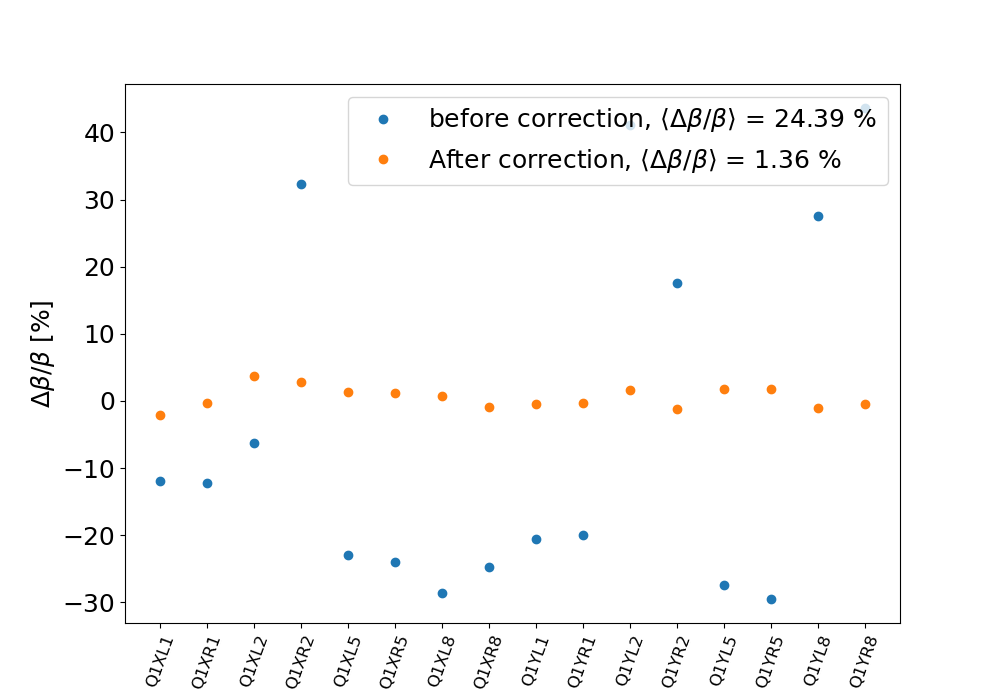
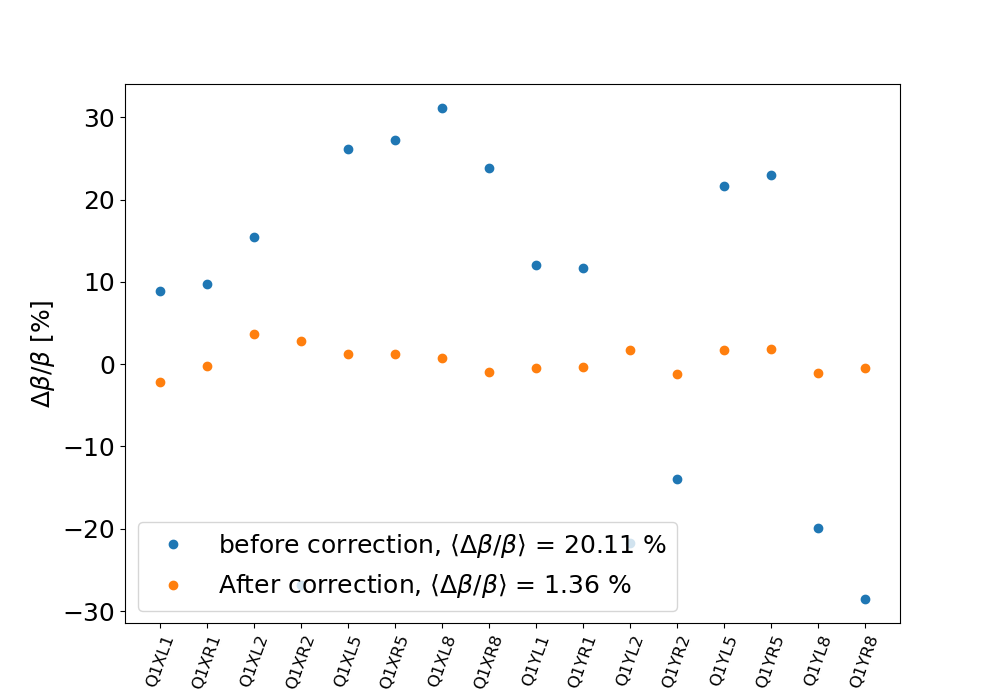
further analysis

diff --git a/gym/gym_lhc/correction.py b/gym/gym_lhc/correction.py
@@ -17,7 +17,7 @@ def run_correction():
     KQX2B2 = -0.04005580581
     KQX3B2 = 0.0234346323
 
-    input = [KQX3B1, KQX3B1, KQX2B1, KQX2B1,
+    nominal = [KQX3B1, KQX3B1, KQX2B1, KQX2B1,
              KQX1B1, KQX1B1, KQX1B2, KQX1B2,
              KQX2B2, KQX2B2, KQX3B2, KQX3B2]
 
@@ -53,7 +53,8 @@ def run_correction():
     obs = env.reset()
 
     # Define errors and observation space
-    errors = obs/input-1
+    errors = obs - nominal
+    print("Nominal state:", nominal)
     print("State:", obs)
     print("Errors:", errors)
     initial = obs
@@ -63,10 +64,23 @@ def run_correction():
     modelfile = 'Ridge_surrogate_20k.pkl'
     estimator = pickle.load(open(modelfile, "rb"))
 
-    # Estimated initial beta-beating
+    # Estimated beta-beating before correction
     dbetas_0 = estimator.predict(np.reshape(initial, (1, -1))) / betas_B1 * 100
     beating_0 = abs(dbetas_0).mean()
     print("beta-beating before correction = %1.2f %%" % beating_0)
+
+    # Manual correction based on compensating magnetic errors
+
+    errors_avg = [0]*12
+
+    for j in range(6):
+        i = 2*j
+        errors_avg[i], errors_avg[i+1] = (errors[i] + errors[i+1])/2.0, (errors[i] + errors[i+1])/2.0
+
+    initial_corr = initial - errors_avg
+    dbetas_manual = estimator.predict(np.reshape(initial_corr, (1, -1))) / betas_B1 * 100
+    beating_manual = abs(dbetas_manual).mean()
+    print("beta-beating after manual correction = %1.2f %%" % beating_manual)
 
     # Load RL model
     model = TD3.load("td3_LHC_136")
@@ -87,8 +101,8 @@ def run_correction():
             #print("Final state =", obs)
 
     # Return beta-beating after correction
-    obs_0_norm = (obs_0-input)/input*100
-    obs_norm = (obs-input)/input*100
+    obs_0_norm = (obs_0-nominal)/nominal*100
+    obs_norm = (obs-nominal)/nominal*100
 
     '''
     plt.figure()
@@ -101,7 +115,7 @@ def run_correction():
 
     # Some post-processing of the action space
     rel_action = (np.array([action[0], action[0], action[1], action[1], action[2], action[2],
-                  action[3], action[3], action[4], action[4], action[5], action[5]]))/np.array(input)
+                  action[3], action[3], action[4], action[4], action[5], action[5]]))/np.array(nominal)
 
     action_vec = (np.array([action[0], action[0], action[1], action[1], action[2], action[2],
                   action[3], action[3], action[4], action[4], action[5], action[5]]))
@@ -111,6 +125,9 @@ def run_correction():
 
     magnet_list = ["Q1XL1", "Q1XR1", "Q1XL2", "Q1XR2", "Q1XL5", "Q1XR5", "Q1XL8", "Q1XR8",
                    "Q1YL1", "Q1YR1", "Q1YL2", "Q1YR2", "Q1YL5", "Q1YR5", "Q1YL8", "Q1YR8"]
+
+    quad_list =["QB3L1", "QA3L1", "QB2L1", "QA2L1", "QB1L1", "QA1L1",
+                "QA1R1", "QB1R1", "QA2R1", "QB2R1", "QA3R1", "QB3R1"]
 
     plt.figure(figsize=(10,7))
     plt.plot(dbetas_0[0], 'o', label=r'before correction, $\langle\Delta\beta/\beta\rangle$ = %1.2f %%' % beating_0)
@@ -122,17 +139,30 @@ def run_correction():
     plt.xticks(np.arange(0,16), magnet_list, rotation=70)
     plt.xticks(fontsize=12)
     plt.yticks(fontsize=18)
-    plt.savefig("beating_after_crrection_no_errors.png")
+    plt.savefig("beating_after_crrection.png", bbox_to_anchor="tight")
 
-    plt.figure()
-    plt.plot(errors, 'o', label='Errors')
-    plt.plot(action_vec, 'o', label='Actions')
+    plt.figure(figsize=(10,7))
+    plt.plot(errors/nominal, 'o', label='Errors')
+    plt.plot(action_vec/nominal, 'o', label='Actions')
     #plt.plot(betas_B1, label='nominal')
     plt.legend(fontsize=18)
     plt.xlabel("Magnet number", fontsize=18)
-    plt.ylabel(r"$\Delta\beta/\beta$ [%]", fontsize=18)
-    plt.xticks(fontsize=18)
+    plt.ylabel(r"Relative magnet strength", fontsize=18)
+    plt.xticks(np.arange(0,12), quad_list, rotation=70)
+    plt.xticks(fontsize=12)
     plt.yticks(fontsize=18)
+    plt.savefig("errors_and_actions_after_correction.png", bbox_to_anchor="tight")
+
+    plt.figure(figsize=(10,7))
+    plt.plot(1 - (nominal + errors)/nominal, 'o', label='State before correction')
+    plt.plot(1- obs/nominal, 'o', label='State after correction')
+    plt.legend(fontsize=18)
+    plt.xlabel("Magnet number", fontsize=18)
+    plt.ylabel(r"Relative magnet strength", fontsize=18)
+    plt.xticks(np.arange(0,12), quad_list, rotation=70)
+    plt.xticks(fontsize=12)
+    plt.yticks(fontsize=18)
+    plt.savefig("state_before_and_after_correction.png", bbox_to_anchor="tight")
 
     plt.show()
 
